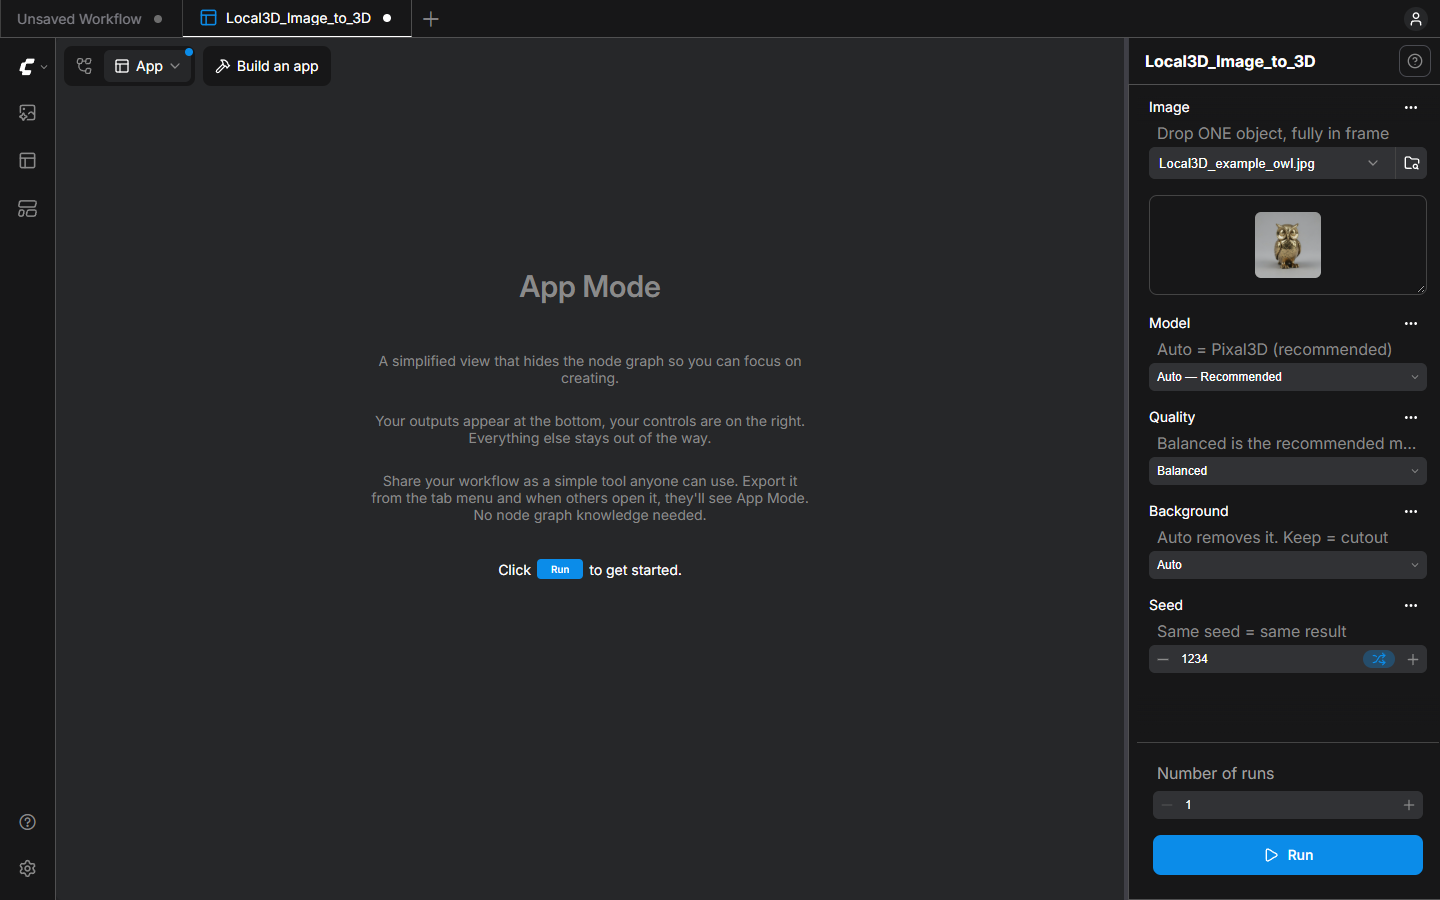
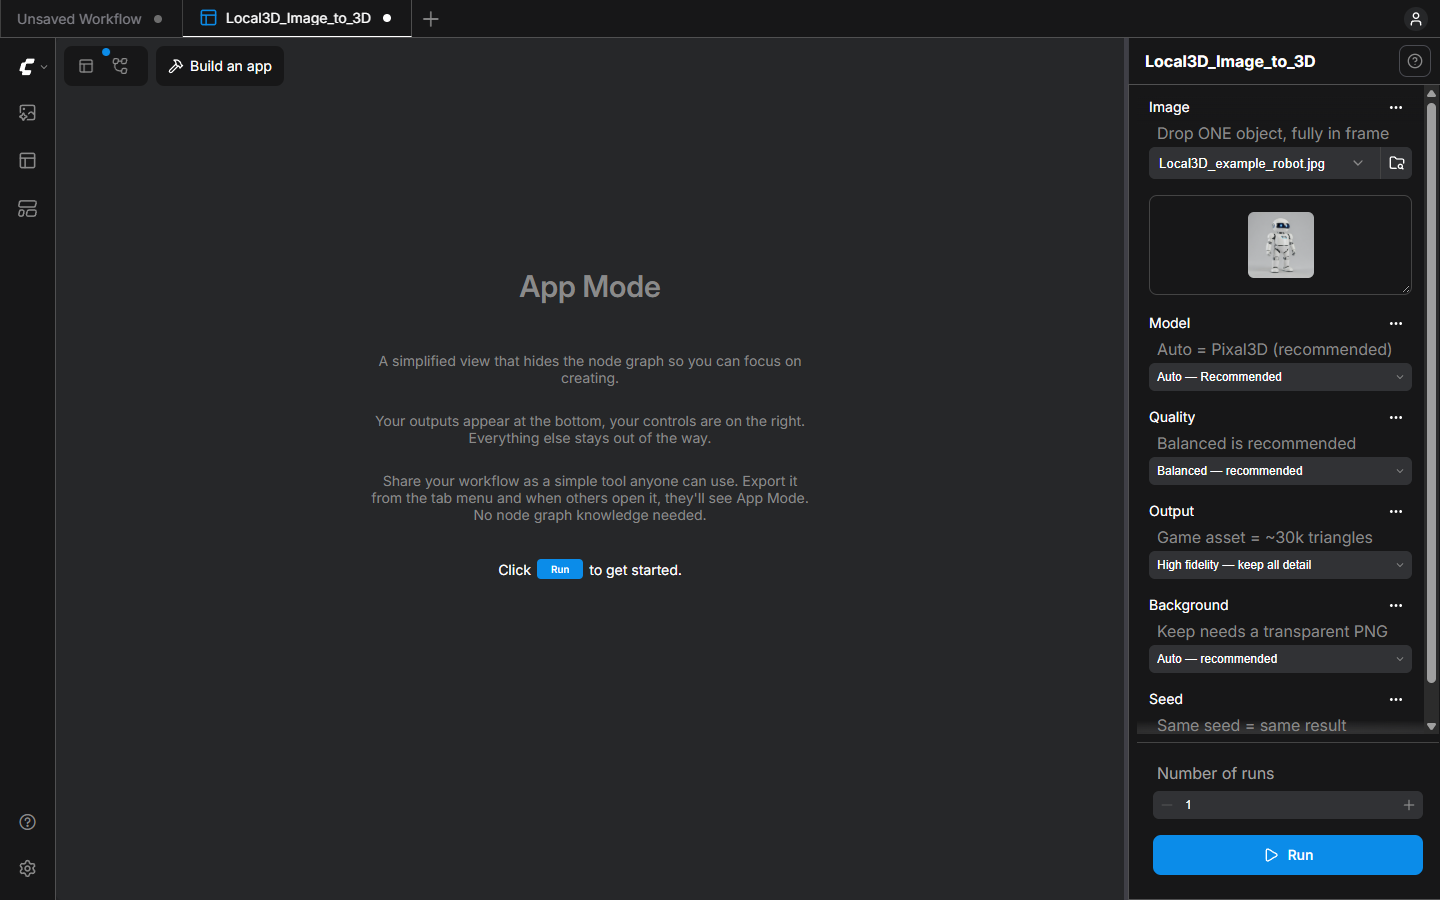
docs: add README with real screenshots and a demo recorded from the installed app
The GIF shows the real progress stages and the finished model in the viewer.

diff --git a/scripts/capture_media.py b/scripts/capture_media.py
@@ -77,19 +77,28 @@ class Page:
         self.call("Input.dispatchMouseEvent", type="mouseReleased", x=x1, y=y1, button="left")
 
 
-def save_gif(frames: list[Image.Image], path: str, width: int = 880, first_ms=1500, ms=170, last_ms=2800, max_frames: int = 34):
+def save_gif(frames: list[Image.Image], path: str, width: int = 880, first_ms=1500, ms=170, last_ms=2800, max_frames: int = 40, min_change: float = 0.0004):
+    """Keep a frame when more than `min_change` of its pixels differ from the last kept frame (a changed stage caption is a
+    tiny area, so the test counts changed pixels instead of averaging them), then thin evenly to `max_frames`."""
     import numpy as np
+
+    def small(f):
+        return np.asarray(f.resize((720, 450))).astype(np.int16)
+
     kept = [frames[0]]
+    last = small(frames[0])
     for f in frames[1:]:
-        if float(np.abs(np.asarray(f.resize((160, 100))).astype(np.int16) - np.asarray(kept[-1].resize((160, 100))).astype(np.int16)).mean()) > 0.8:
+        cur = small(f)
+        if float((np.abs(cur - last).max(axis=2) > 24).mean()) > min_change:
             kept.append(f)
+            last = cur
     if len(kept) > max_frames:   # keep the first and the last few, thin the middle
         step = (len(kept) - 6) / (max_frames - 6)
         kept = kept[:1] + [kept[1 + int(i * step)] for i in range(max_frames - 6)] + kept[-5:]
-    small = [f.resize((width, int(f.height * width / f.width)), Image.LANCZOS).convert("P", palette=Image.ADAPTIVE, colors=64) for f in kept]
-    durations = [first_ms] + [ms] * (len(small) - 2) + [last_ms]
-    small[0].save(path, save_all=True, append_images=small[1:], duration=durations, loop=0, optimize=True, disposal=2)
-    return len(small)
+    out = [f.resize((width, int(f.height * width / f.width)), Image.LANCZOS).convert("P", palette=Image.ADAPTIVE, colors=64) for f in kept]
+    durations = [first_ms] + [ms] * (len(out) - 2) + [last_ms]
+    out[0].save(path, save_all=True, append_images=out[1:], duration=durations, loop=0, optimize=True, disposal=2)
+    return len(out)
 
 
 def main():
@@ -101,8 +110,9 @@ def main():
     ap.add_argument("--template", default="Local3D_Prompt_to_3D.app", help="for mode 'app': which app to open")
     args = ap.parse_args()
     page = Page(args.port)
-    if args.mode == "app":
-        page.call("Page.navigate", url=f"{page.base}/?template={args.template}&source=local3d_pack&mode=linear")
+    if args.mode in ("app", "run"):   # start from a freshly opened app, not from the last result
+        template = args.template if args.mode == "app" else "Local3D_Image_to_3D.app"
+        page.call("Page.navigate", url=f"{page.base}/?template={template}&source=local3d_pack&mode=linear")
         time.sleep(4)
     page.wait_ready()
     if args.mode in ("shot", "app"):

diff --git a/README.md b/README.md
@@ -1,0 +1,91 @@
+# Local3D
+
+**Turn a photo or a text prompt into a textured 3D model, on your own NVIDIA GPU, offline.**
+
+- **Local and private.** After a one-time download of the models, nothing leaves your PC. No account, no telemetry.
+- **Simple.** Drop a picture (or type a prompt), pick a quality, press **Run**. No node graph, no Python, no model folders.
+- **Open models.** Pixal3D and TRELLIS.2 build the 3D model; FLUX.2 klein draws reference pictures. All run through official ComfyUI.
+- **Real assets.** A UV-unwrapped mesh with PBR textures (base colour, metallic, roughness, normal, occlusion) in one `.glb` file.
+
+![Local3D turning a picture of a robot into a 3D model: removing the background, building the shape, baking textures, then the finished model in the viewer](docs/images/demo.gif)
+
+## Quick start
+
+Windows 10/11 and an NVIDIA RTX 20-series or newer graphics card (12 GB+ recommended; developed on an RTX 5080).
+
+1. Download **Local3D-Setup-0.1.0.exe** from the [latest release](https://github.com/arashsajjadi/Local3D/releases/latest).
+   Windows SmartScreen will warn because the installer is not code-signed yet: *More info* > *Run anyway*.
+2. Install it, then start **Local3D** from the Start menu.
+3. On first start, click **Download** when asked: the ComfyUI runtime (2 GB) and the models (15 GB, plus an optional 7 to 16 GB for prompts).
+   It resumes if interrupted, and everything is checked against checksums.
+4. A sample picture is ready: press **Run**. Or drop your own picture of **one object, fully in frame**. For text prompts, use the *Apps* button in the left bar (or *Start > Local3D tools*).
+5. Turn the finished model around in the viewer. It is saved automatically as a `.glb` in `Documents\Local3D\models`, and the download button above the viewer saves a copy anywhere you like.
+
+More detail: [docs/INSTALL.md](docs/INSTALL.md). Something wrong? [docs/TROUBLESHOOTING.md](docs/TROUBLESHOOTING.md).
+
+![The Local3D app, ready to run](docs/images/app-image-ready.png)
+
+## What you get
+
+| App | Use it to | Time (RTX 5080) |
+| --- | --- | --- |
+| **Image to 3D** | turn one picture into a textured 3D model | Fast 38 s, **Balanced 81 s**, Maximum 111 s |
+| **Prompt to 3D** | describe an object; Local3D draws a reference picture, then builds the model | Fast about 50 s, Balanced about 110 s |
+| **Reference Pictures** | make 1, 2 or 4 candidate pictures from a prompt, then pick the best for *Image to 3D* | about 6 s for four |
+
+Controls: **Model** (Auto = Pixal3D, or TRELLIS.2), **Quality** (Fast, Balanced, Maximum), **Output** (High fidelity, or Game asset with
+about 30k triangles), **Background** (Auto, Remove, Keep your own transparent PNG) and **Seed**. Times are measured, not promised: see [docs/QUALITY.md](docs/QUALITY.md).
+
+Single-picture 3D *estimates* the sides it cannot see. Show the whole object on a simple background, and treat the back as a good guess.
+
+## Supported models
+
+| Model | Role | License | Download |
+| --- | --- | --- | --- |
+| [Pixal3D](https://huggingface.co/TencentARC/Pixal3D) | image to 3D, default | MIT | in the 15 GB pack |
+| [TRELLIS.2](https://github.com/microsoft/TRELLIS.2) | image to 3D, alternative for intricate or thin objects | MIT | in the 15 GB pack |
+| [FLUX.2 klein 4B](https://huggingface.co/black-forest-labs/FLUX.2-klein-4b-nvfp4) | reference pictures for prompts | Apache-2.0 | optional, 6.6 to 16 GB by GPU |
+
+Model licenses differ from this project's MIT license; the DINOv3 encoder both 3D models need is under Meta's own license.
+See [docs/MODELS.md](docs/MODELS.md) (including why Hunyuan3D is not in v0.1.0) and [THIRD_PARTY_NOTICES.md](THIRD_PARTY_NOTICES.md).
+
+## Example results
+
+Eight objects chosen to stress different things, each through **both models at Balanced**: every run, including the weak ones.
+Left to right: the reference picture, Pixal3D, TRELLIS.2.
+
+![Toolbox, pocket watch, fox, chair: reference, Pixal3D, TRELLIS.2](docs/images/examples-1.jpg)
+![Basket, teapot, hat, robot: reference, Pixal3D, TRELLIS.2](docs/images/examples-2.jpg)
+
+* Thin spindles, open tops, small handles and fine gears are kept by both models.
+* **Shiny chrome is the weak spot** (see the teapot): reflections turn into blotchy texture.
+* Pixal3D stays closer to the picture's colours; TRELLIS.2 sometimes drifts (the basket, the robot's visor).
+* One of the 16 runs failed: TRELLIS.2 at Balanced ran out of GPU memory on the knitted hat while other programs held about 5 GB of the card.
+  Local3D says what to do in plain words (lower the Quality or switch Model), and your settings stay put.
+
+Details, timings and how the presets were chosen: [docs/QUALITY.md](docs/QUALITY.md).
+
+
+## Privacy
+
+Generation runs on your PC. Pictures, prompts and meshes are not uploaded anywhere, there is no telemetry, and no account is needed.
+The internet is used only for the first-run downloads (the ComfyUI runtime from GitHub, models from Hugging Face). After
+that, generation works offline. The diagnostics summary contains versions and hardware only.
+
+## How it works
+
+Local3D is a thin layer over official, unmodified [ComfyUI](https://github.com/Comfy-Org/ComfyUI): a tiny launcher starts
+it privately on your PC, a set of ComfyUI *App Mode* apps (built only from Comfy Core nodes) provides the simple screens, and the
+official 3D nodes do the work. Experts can switch any app to the full graph. See [docs/ARCHITECTURE.md](docs/ARCHITECTURE.md) and
+[why ComfyUI rather than LocalAI or Comfy Desktop](docs/ARCHITECTURE_DECISION.md).
+
+## For developers
+
+```
+git clone https://github.com/arashsajjadi/Local3D
+python scripts/validate.py && python -m unittest discover -s tests
+```
+See [CONTRIBUTING.md](CONTRIBUTING.md). Independent project, not affiliated with Comfy Org, Microsoft, Tencent, Meta or Black Forest Labs.
+License: [MIT](LICENSE) for this repository's files; runtime and models have their own licenses.
+
+If Local3D is useful to you, consider starring the repository.

diff --git a/docs/INSTALL.md b/docs/INSTALL.md
@@ -28,6 +28,9 @@ The installer is only about 2 MB. It does not download anything.
    * *Image to 3D* (15.2 GB) is required.
    * *Prompt to 3D* reference pictures (6.6 GB on RTX 50-series, 12.5 GB on RTX 40-series, 16.1 GB on older cards) is optional.
    Use **Change folder...** to put them on another drive. Downloads can be interrupted at any time and resume.
+
+   ![The first-run model download window](images/first-run-models.png)
+
 3. The **app window** opens. The very first start of the engine takes about half a minute longer than later ones.
 
 You never see a console window, a Python install, a model folder or a node graph.
@@ -39,6 +42,9 @@ You never see a console window, a Python install, a model folder or a node graph
   the most GPU memory.
 * **Prompt to 3D**: *Start > Local3D tools > Prompt to 3D*, or use the *Apps* button in the left bar of the window.
   Type what you want and press **Run**.
+
+  ![Prompt to 3D, ready to run](images/app-prompt-ready.png)
+
 * **Reference pictures** makes up to four candidates in seconds. Pick the best, then choose it in *Image to 3D*. If the new
   pictures are not in that app's picture list yet, press **R** (refresh) or reopen the app.
 
